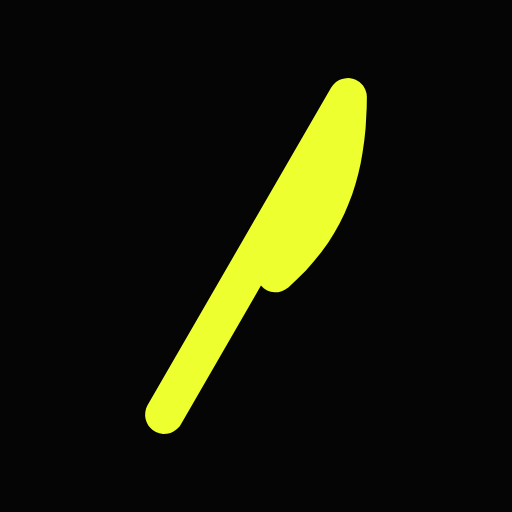
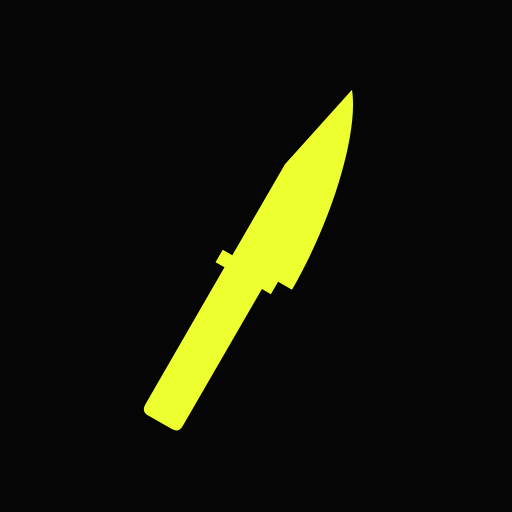
website: a sharper blade
The mark was the outline of a round-capped stroke and read soft. It is
now a knife silhouette: a straight spine clipping to a point, a heel and
a belly on the edge side, a small bolster step and a rounded butt, on the
same slim diagonal so it still sits along the cut of the word mark. The
favicon and the design files carry the same path, and the PNG and ICO
assets are regenerated.

Claude-Session: https://claude.ai/code/session_014vtUbpTh1JuUT1dLpaSm8m

diff --git a/website/lib/components/icons.dart b/website/lib/components/icons.dart
@@ -75,11 +75,10 @@ Component logo({bool large = false, String id = 'logo'}) => span(
   ],
 );
 
-/// The blade: a filled outline of a 2.4-wide round-capped stroke on the
-/// 24-unit icon grid, running along the 30° cut of the word mark. Unlike the
-/// [Icon]s it does not depend on stroke settings, so it draws the same in the
-/// site header, the favicon and the social card. `web/favicon.svg` carries the
-/// same path.
+/// The blade: a slim knife silhouette on the 24-unit icon grid, pointing
+/// up-right along the 30° cut of the word mark. A single filled path, unlike
+/// the stroked [Icon]s, so it draws the same in the site header, the favicon
+/// and the social card. `web/favicon.svg` carries the same path.
 Component logoMark({int size = 24}) => svg(
   attributes: {
     'viewBox': '0 0 24 24',
@@ -95,7 +94,7 @@ Component logoMark({int size = 24}) => svg(
 );
 
 const _logoMarkPath =
-    'M12.31 13.85 7.31 22.52 7.22 22.65 7.06 22.82 6.87 22.96 6.66 23.06 6.43 23.11 6.19 23.12 5.96 23.08 5.74 23 5.54 22.87 5.39 22.74 5.27 22.59 5.16 22.38 5.1 22.19 5.07 22 5.08 21.76 5.13 21.53 5.21 21.35 16.69 1.48 16.83 1.29 17 1.13 17.2 1 17.38 0.93 17.62 0.89 17.81 0.88 18.05 0.92 18.23 0.99 18.47 1.13 18.58 1.24 18.69 1.35 18.83 1.59 18.91 1.85 18.93 2.05 18.92 2.72 18.85 4.02 18.77 4.76 18.66 5.53 18.54 6.22 18.39 6.88 18.21 7.53 18.01 8.15 17.78 8.75 17.53 9.34 17.23 9.96 16.89 10.57 16.52 11.15 16.09 11.75 15.62 12.33 15.12 12.9 14.58 13.44 14.02 13.97 13.83 14.1 13.61 14.2 13.39 14.26 13.15 14.27 12.92 14.23 12.7 14.15 12.5 14.03Z';
+    'M5.08 21.28L10.03 12.71L9.47 12.39L9.92 11.61L10.52 11.96L13.81 6.26L18 1.61C18.41 4.2 16.86 9.59 14.25 14.11L13.38 13.61L12.93 14.39L12.37 14.06L7.42 22.63Q7.17 23.07 6.74 22.82L5.26 21.97Q4.83 21.72 5.08 21.28Z';
 
 /// The cut "ciach" word mark as an inline SVG, filled with `currentColor` and
 /// sized by the surrounding font size (see `.logo-text svg` in `NavBar`).
